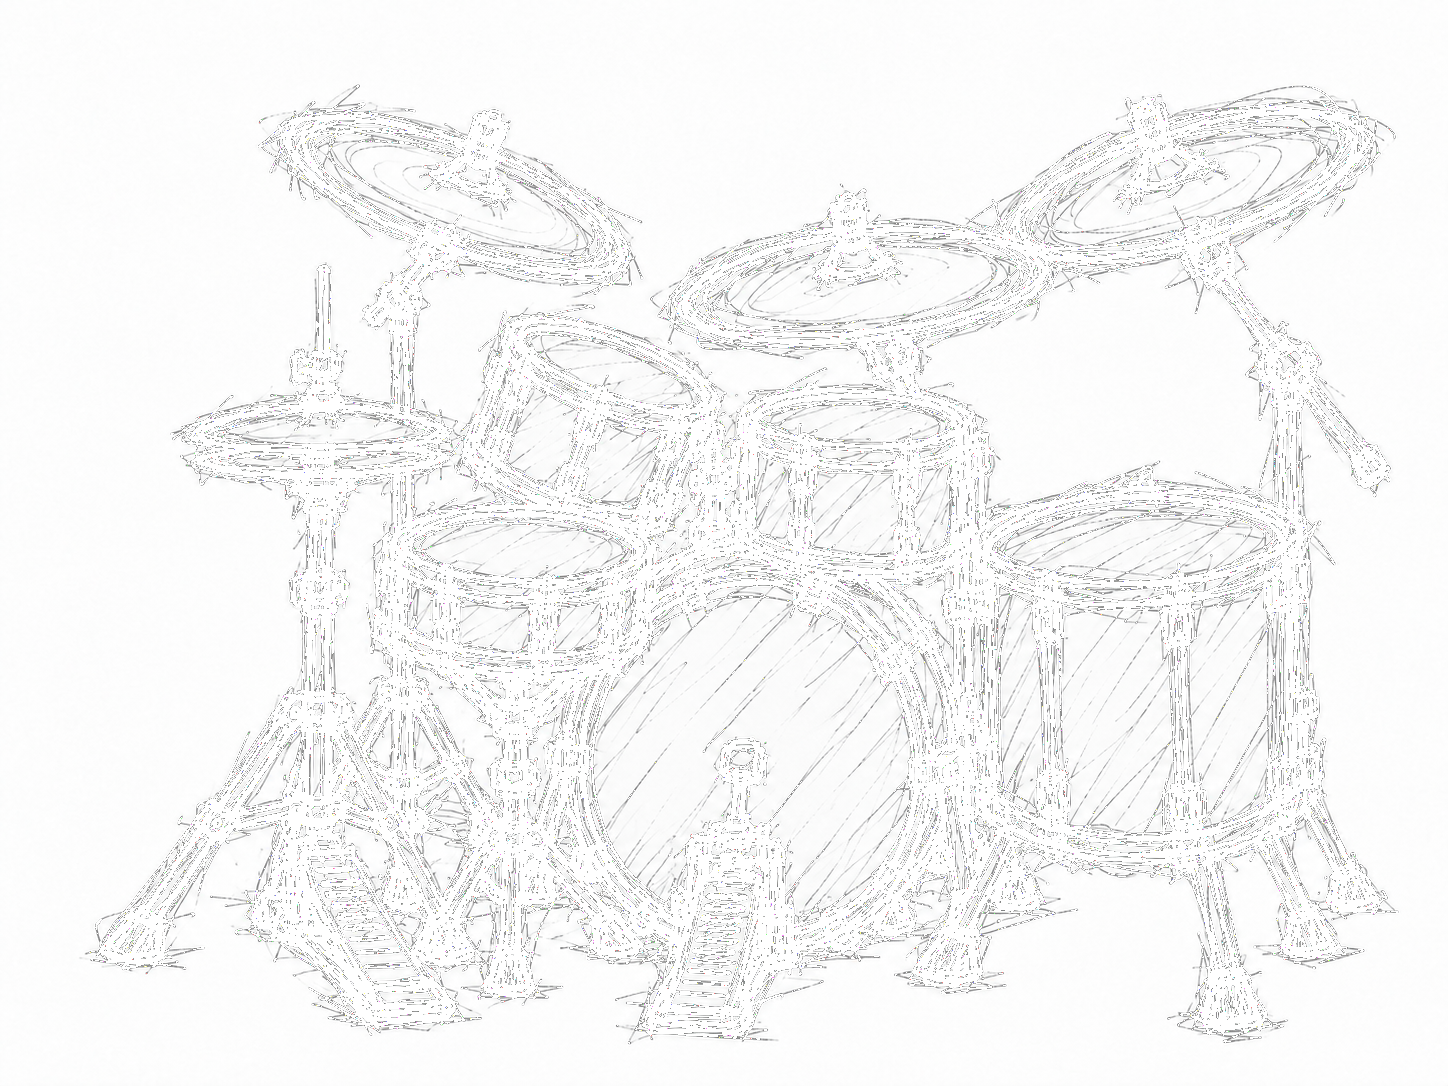
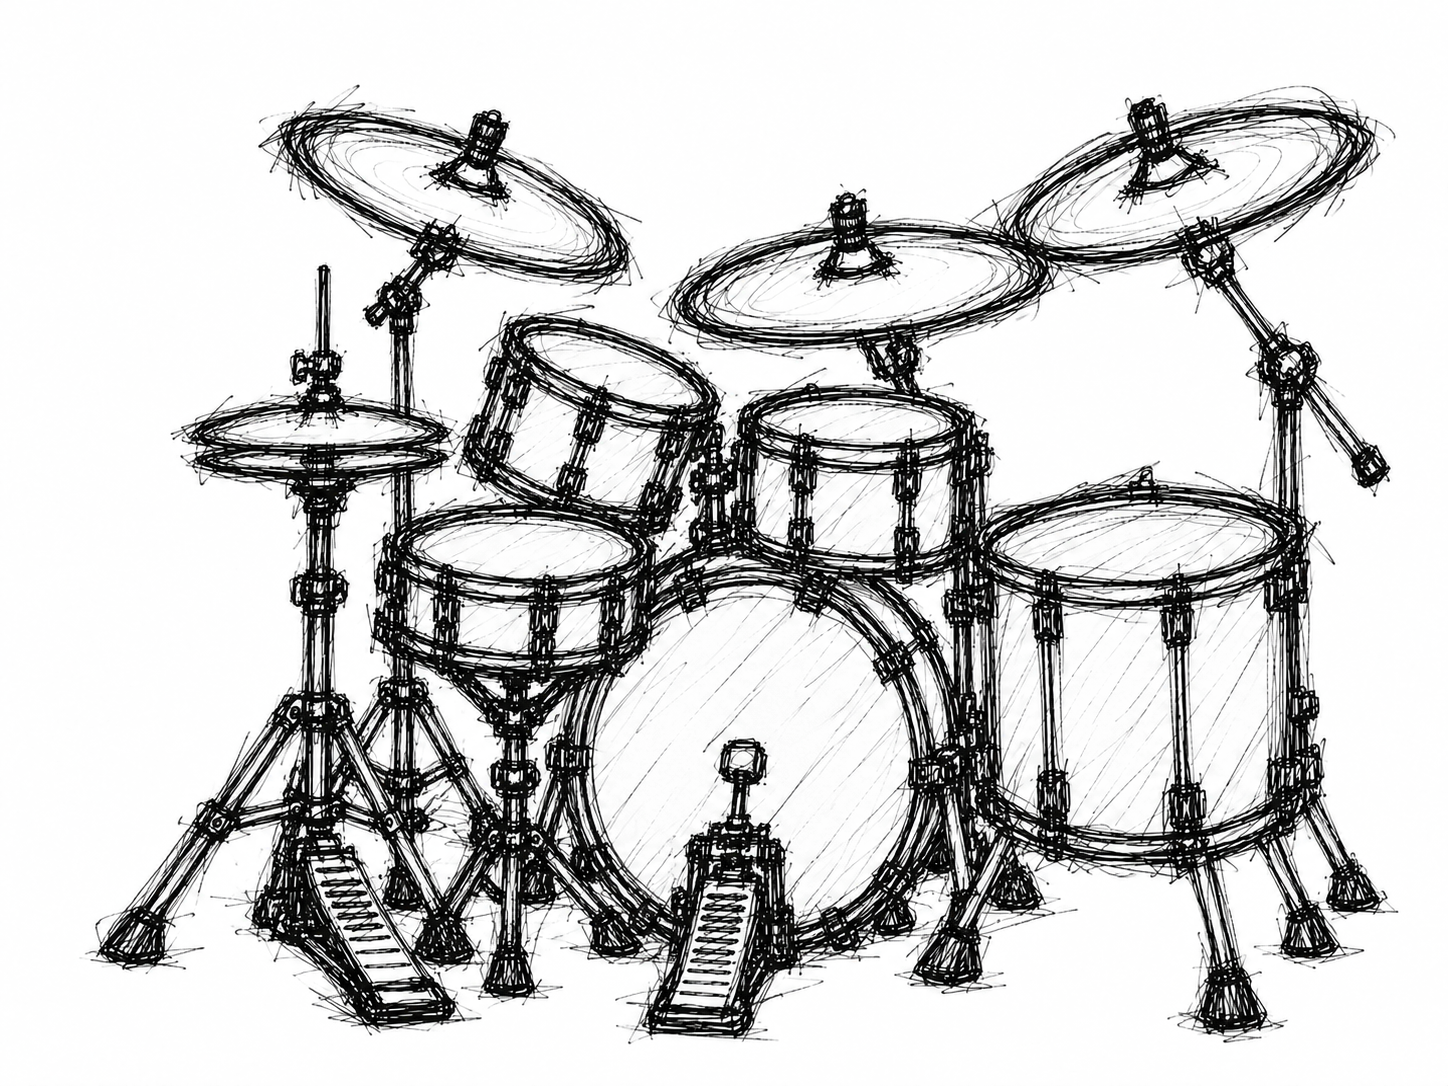
assets: import corrected finalized drum v2 from Dropbox

Changed region(s): [[0.0622, 0.0912, 0.9634, 0.9724]]

diff --git a/site/character-prototype.js b/site/character-prototype.js
@@ -4,7 +4,7 @@ const PROTOTYPE_MEASURE_END=4;
 const LIMB_URL="./charts/luna_say_maybe/Luna_say_maybe_1_16_limbs.json";
 const INVENTORY_URL="./character-assets/prototypes/luna_say_maybe_16m/asset_inventory.json";
 const ASSET_ROOT="./character-assets";
-const ASSET_VERSION="20260918-drum-compact-r1";
+const ASSET_VERSION="20260918-drum-compact-v2-r1";
 const DRUM="./character-assets/layers/drum/drum_base.png";
 const assetUrl=src=>src+(src.includes("?")?"&":"?")+"v="+ASSET_VERSION;
 
@@ -15,7 +15,7 @@ function updateDevHud(extra=""){
   if(!hud)return;
   const root=document.getElementById("characterBackdrop");
   const lines=[
-    "BUILD 20260918-drum-compact-r1ntactfix-r1",
+    "BUILD 20260918-drum-compact-v2-r1ntactfix-r1",
     "JS:ok / CHAR:"+(ready?"ready":"loading"),
     "active:"+(root?.dataset.active||"-")+" state:"+(root?.dataset.state||"-"),
     "frame:"+(root?.dataset.frame||"-"),
